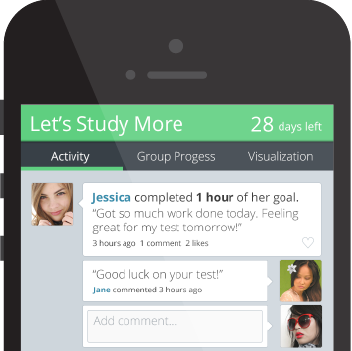
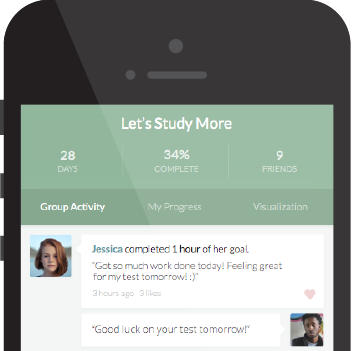
new images for achieve

diff --git a/pages/achieve.html b/pages/achieve.html
@@ -103,10 +103,18 @@
 					<h2>Visual Design</h2>
 					<p>Green was chosen as the accent color of the app because green is generally associated with success. To help enforce a social feel, profile pictures of users are shown, and activity is shown as speech bubbles. The “add comment” box is available under every single post to make it clear to users that commenting is encouraged. Users also have the option to like their friends progress, so they can quickly and easily give their friends positive feedback.</p>
 				</div>
+				<h3>Early Explorations</h3>
 					<ul class="large-block-grid-2 medium-block-grid-2 small-block-grid-1">
 						<li><a href="../img/pact/pact-grouppage.png" data-lightbox="visdesign"> <img src="../img/pact/pact-grouppage.png" alt="Group Goal Page"> </a></li>
 						<li> <a href="../img/pact/pact-home.png" data-lightbox="visdesign"> <img src="../img/pact/pact-home.png" alt="Homepage"> </a> </li>
 					</ul>
+				<h3>Later Explorations (missing icons)</h3>
+				<div class="centerwrapper">
+					<ul class="large-block-grid-2 medium-block-grid-2 small-block-grid-1">
+						<li><a href="../img/pact/pact-grouppage2.png" data-lightbox="visdesign2"> <img src="../img/pact/pact-grouppage2.png" alt="Group Goal Page"> </a></li>
+						<li> <a href="../img/pact/pact-home2.png" data-lightbox="visdesign2"> <img src="../img/pact/pact-home2.png" alt="Homepage"> </a> </li>
+					</ul>
+				</div>
 			</div>
 
 		<hr>
